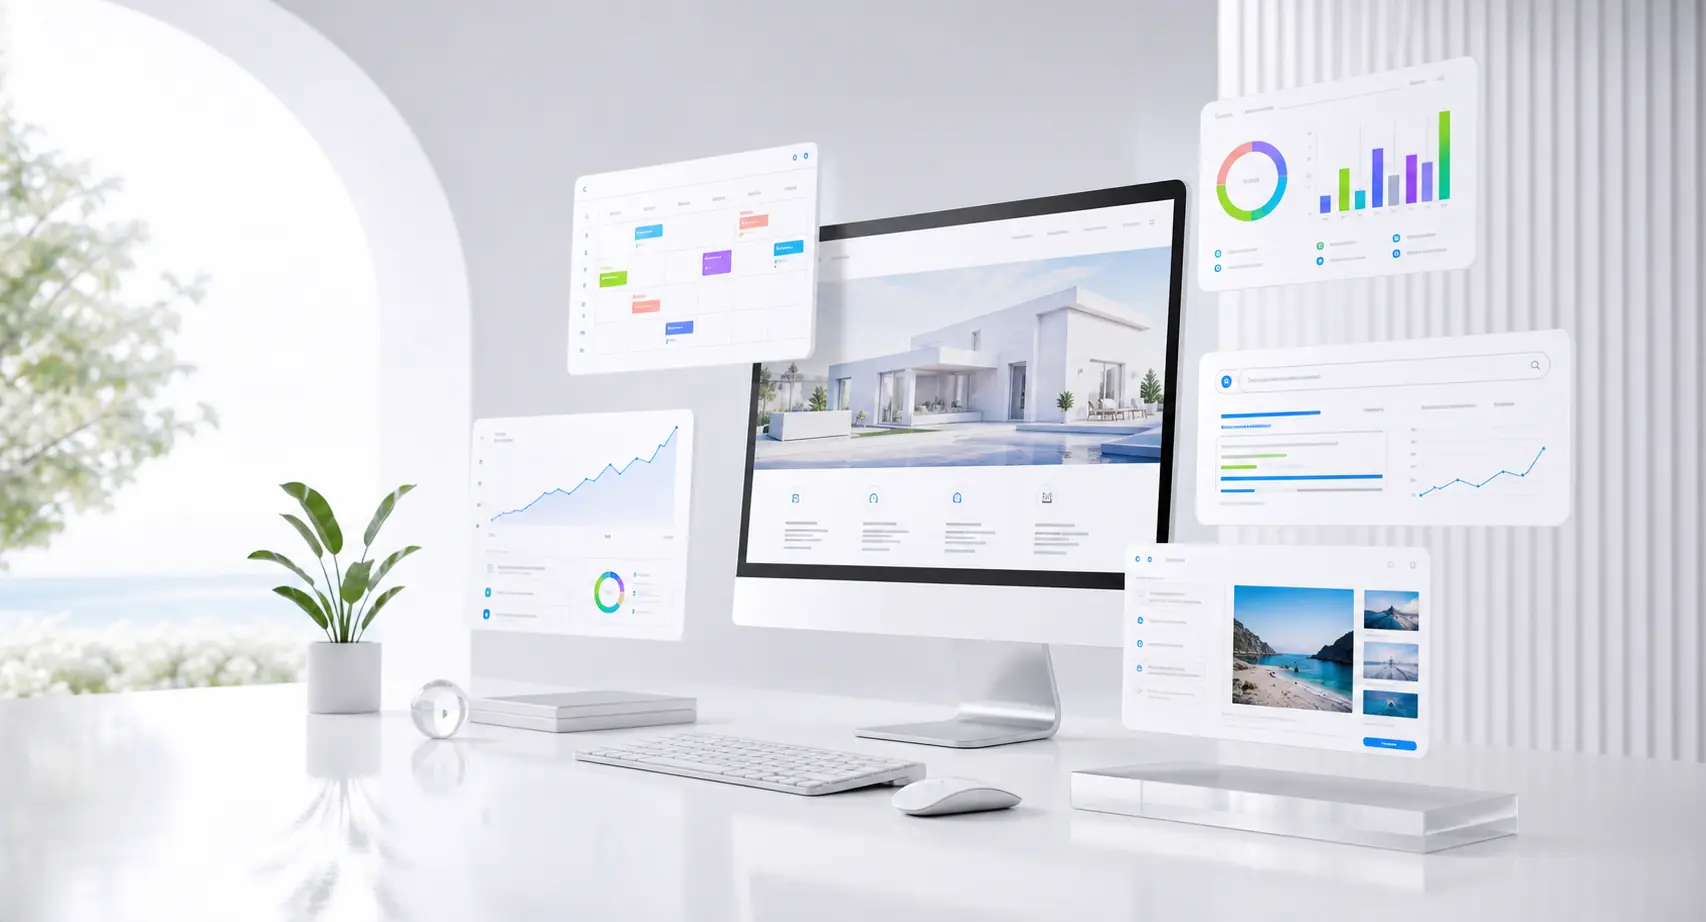
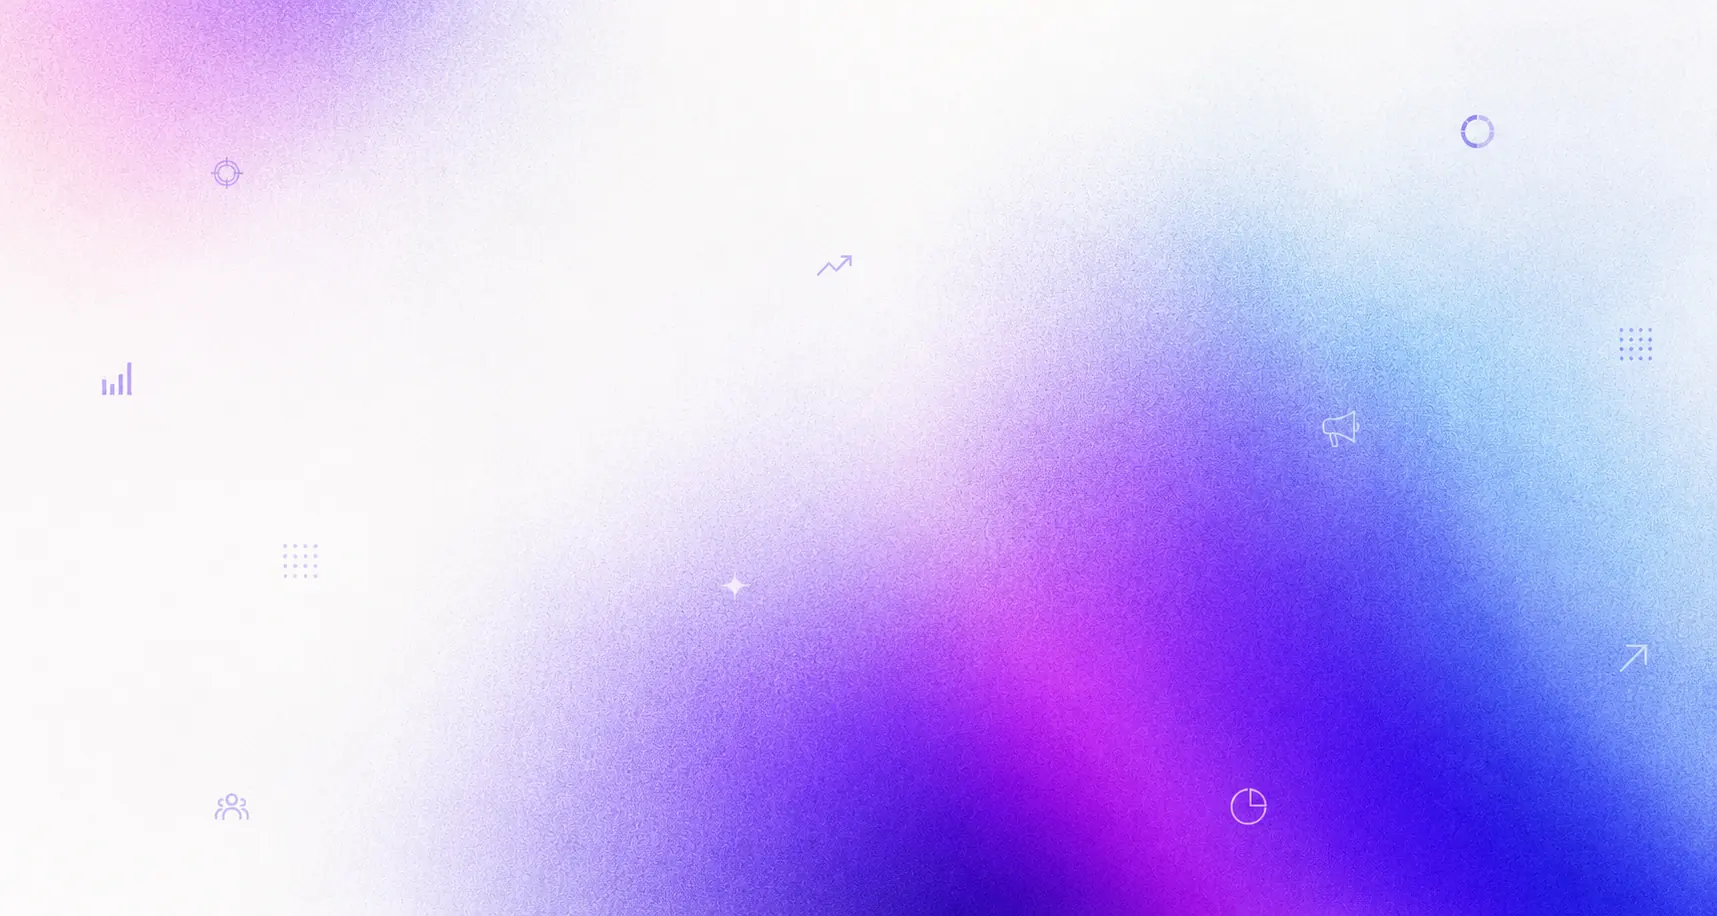
Update hero artwork

diff --git a/src/styles.css b/src/styles.css
@@ -336,13 +336,14 @@ nav a:hover::after {
 
 .hero-image {
   object-fit: cover;
-  object-position: 64% center;
+  object-position: center center;
 }
 
 .hero-scrim {
   background:
-    linear-gradient(90deg, rgba(255, 255, 255, 0.98) 0%, rgba(255, 255, 255, 0.86) 32%, rgba(255, 255, 255, 0.26) 72%),
-    linear-gradient(180deg, rgba(255, 255, 255, 0.56) 0%, rgba(255, 255, 255, 0) 50%, #fff 100%);
+    radial-gradient(circle at 18% 72%, rgba(255, 255, 255, 0.94), rgba(255, 255, 255, 0.58) 34%, rgba(255, 255, 255, 0.12) 62%),
+    linear-gradient(90deg, rgba(255, 255, 255, 0.96) 0%, rgba(255, 255, 255, 0.74) 30%, rgba(255, 255, 255, 0.12) 74%),
+    linear-gradient(180deg, rgba(255, 255, 255, 0.32) 0%, rgba(255, 255, 255, 0) 52%, #fff 100%);
 }
 
 .hero-content {
@@ -1555,13 +1556,13 @@ h3 {
   }
 
   .hero-image {
-    object-position: 68% center;
+    object-position: 62% center;
   }
 
   .hero-scrim {
     background:
-      linear-gradient(180deg, rgba(255, 255, 255, 0.94) 0%, rgba(255, 255, 255, 0.8) 48%, rgba(255, 255, 255, 0.28) 77%, #fff 100%),
-      linear-gradient(90deg, rgba(255, 255, 255, 0.92), rgba(255, 255, 255, 0.28));
+      linear-gradient(180deg, rgba(255, 255, 255, 0.94) 0%, rgba(255, 255, 255, 0.78) 46%, rgba(255, 255, 255, 0.32) 77%, #fff 100%),
+      linear-gradient(90deg, rgba(255, 255, 255, 0.94), rgba(255, 255, 255, 0.34));
   }
 
   h1 {

diff --git a/src/App.jsx b/src/App.jsx
@@ -320,8 +320,8 @@ function HomePage({ navigate }) {
             src="/optimized/hero.webp"
             alt=""
             className="hero-image"
-            width="1706"
-            height="922"
+            width="1717"
+            height="916"
             fetchPriority="high"
             decoding="sync"
           />
